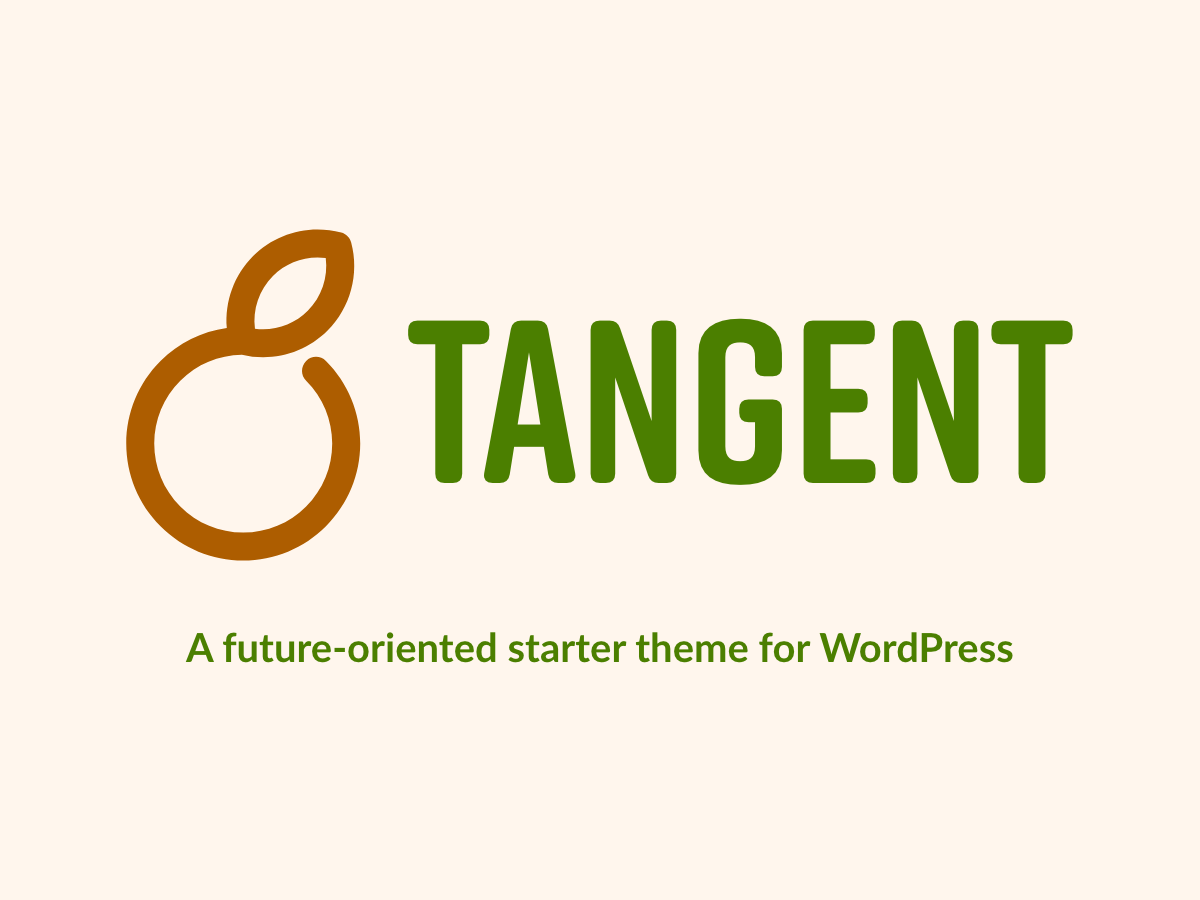
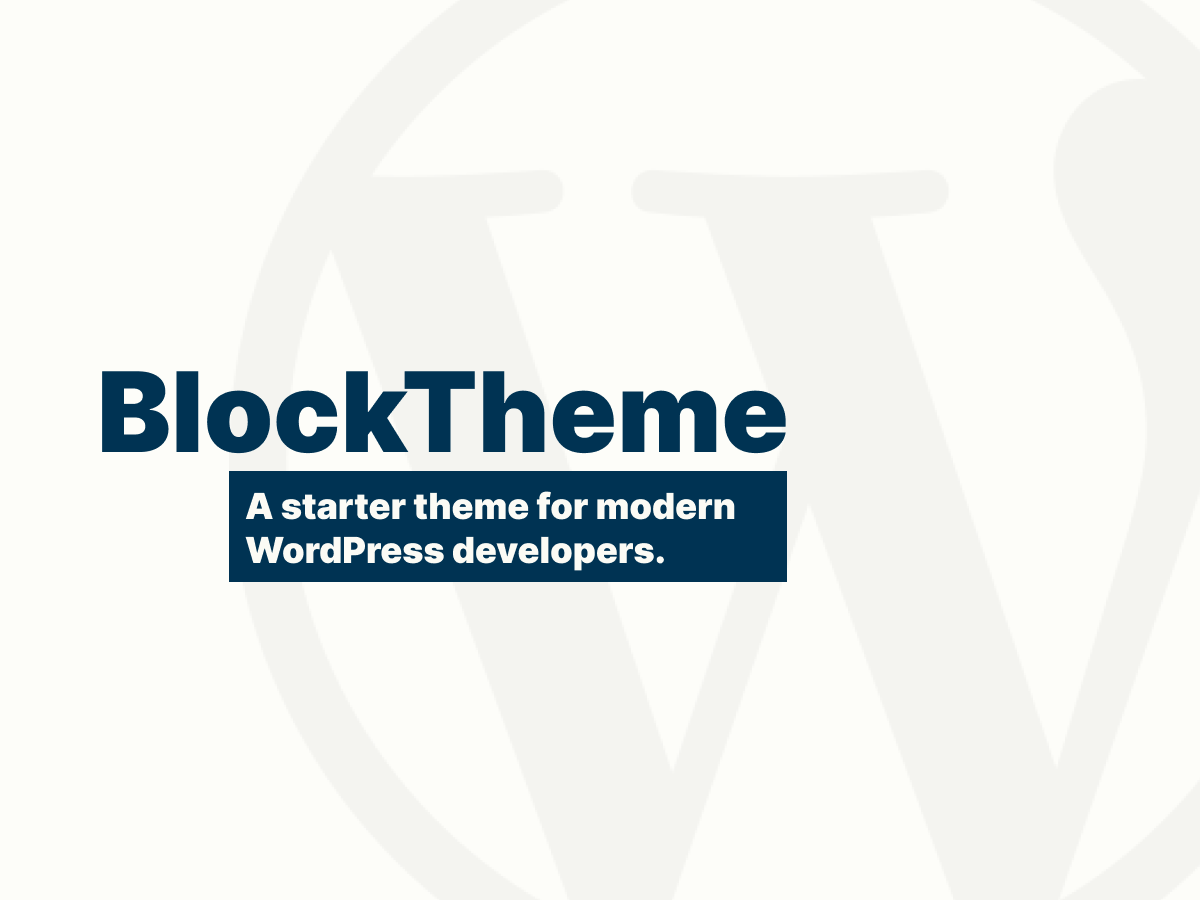
updates name and tagline

Changed region(s): [[0.0617, 0.2489, 0.8942, 0.6533], [0.1542, 0.6844, 0.8633, 0.7467]]

diff --git a/style.css b/style.css
@@ -3,7 +3,7 @@ Theme Name: BlockTheme
 Theme URI: https://www.briancoords.com
 Author: BlockTheme Contributors
 Author URI: https://www.briancoords.com
-Description: A block theme for the modern WordPress developer.
+Description: A starter theme for modern WordPress developers.
 Version: 0.0.0
 Requires PHP: 7.4
 License: GNU General Public License v3 or later

diff --git a/readme.md b/readme.md
@@ -1,6 +1,6 @@
 # BlockTheme
 
-BlockTheme is a WordPress block theme foundation built for modern web developers from [@aurooba](https://github.com/aurooba) and [@bacoords](https://github.com/bacoords).
+BlockTheme is a block-based starter theme built for modern WordPress developers from [@aurooba](https://github.com/aurooba) and [@bacoords](https://github.com/bacoords).
 
 ## Theme Setup
 
